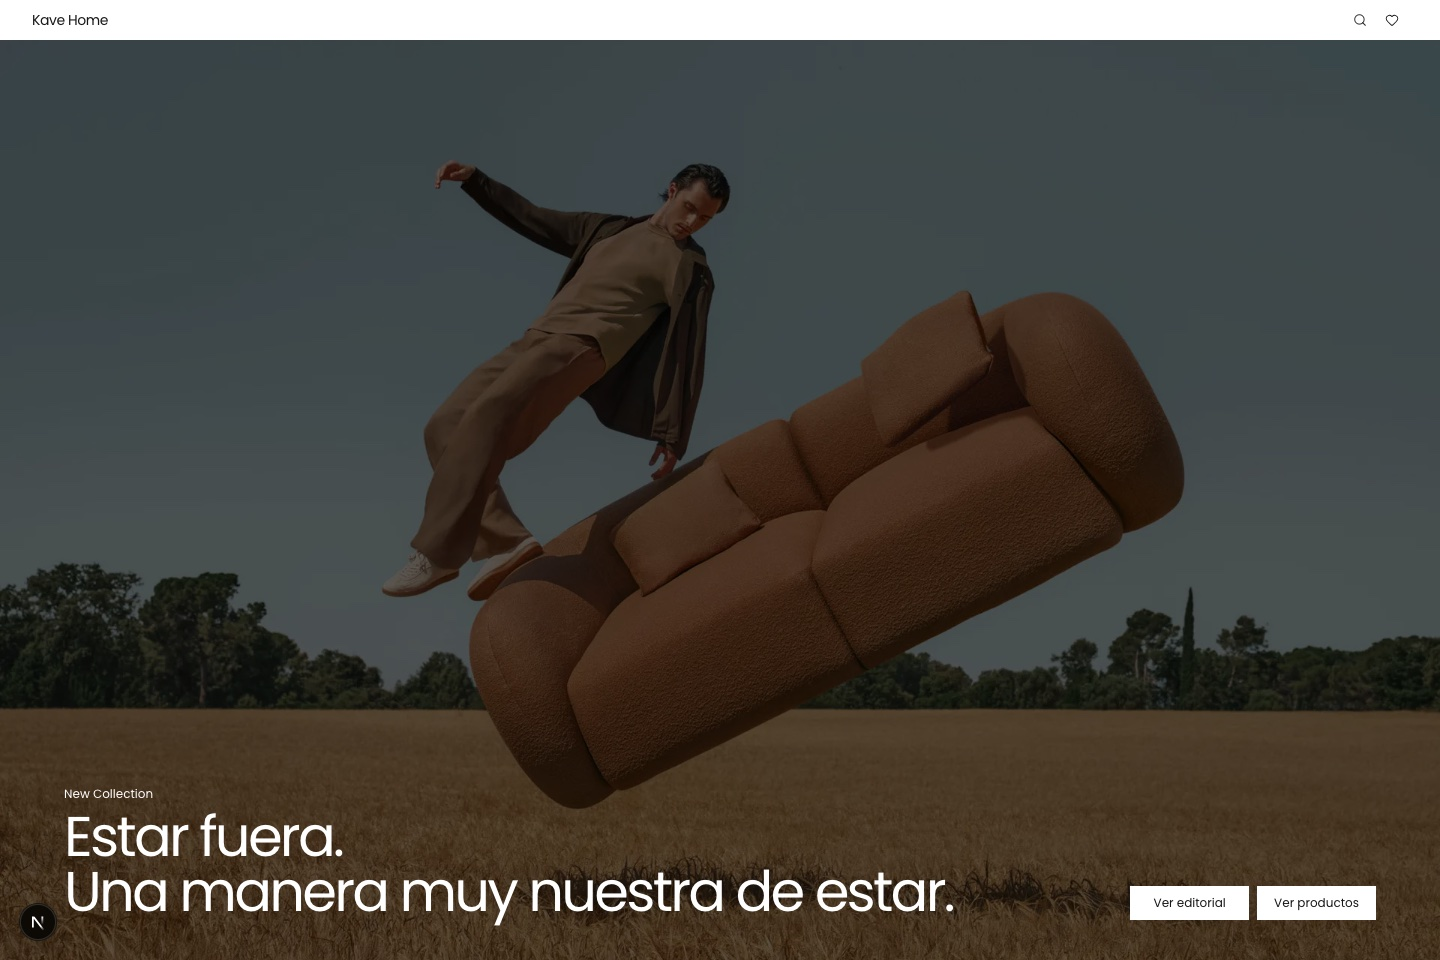
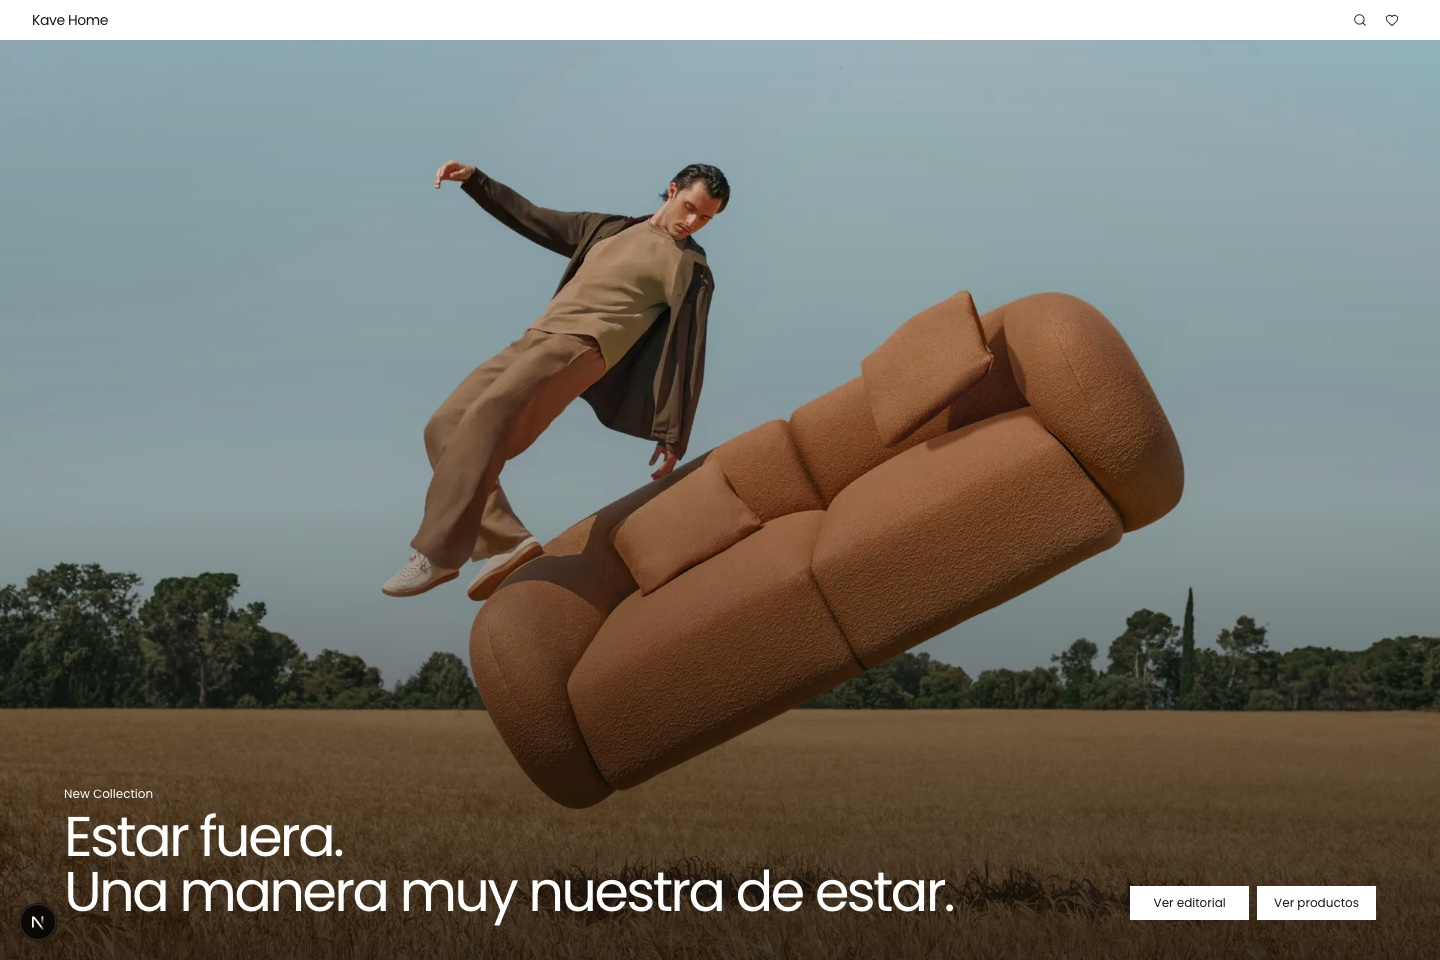
Actualizar galería y gradiente del hero

diff --git a/src/features/product/containers/product-gallery/mobile-product-gallery/index.tsx b/src/features/product/containers/product-gallery/mobile-product-gallery/index.tsx
@@ -14,14 +14,13 @@ export function MobileProductGallery({
     useInfiniteGalleryScroll(images)
 
   return (
-    <div
-      role="region"
-      aria-roledescription="carrusel"
-      aria-label={productGalleryMessages.label}
-      className={mobileGalleryStyles.mobile}
-    >
+    <div className={mobileGalleryStyles.mobile}>
       <div
         ref={viewport}
+        role="region"
+        aria-roledescription="carrusel"
+        aria-label={productGalleryMessages.label}
+        tabIndex={0}
         className={mobileGalleryStyles.mobileTrack}
         onScroll={scheduleCorrection}
       >

diff --git a/src/features/home/page-module/styles.ts b/src/features/home/page-module/styles.ts
@@ -4,7 +4,8 @@ import { cn } from '@/utils/classnames'
 export const homeStyles = {
   hero: 'relative isolate mx-auto flex min-h-[calc(100dvh-var(--header-height))] max-w-screen-2xl items-end overflow-hidden bg-[#f1f0ed] px-5 py-10 text-white sm:px-10 lg:px-16',
   heroImage: 'z-0 object-cover',
-  heroOverlay: 'absolute inset-0 z-10 bg-black/25',
+  heroOverlay:
+    'absolute inset-0 z-10 bg-gradient-to-t from-black/70 via-black/20 to-transparent',
   heroContent:
     'relative z-20 flex w-full flex-col gap-6 md:flex-row md:items-end md:justify-between',
   heroCopy: 'max-w-4xl',

diff --git a/README.md b/README.md
@@ -4,37 +4,67 @@ Storefront responsive construido con Next.js 16, React 19, TypeScript y Tailwind
 
 [Ver despliegue en Vercel](https://kave-home-challenge.vercel.app)
 
-## Vista rápida
+## Galería
 
 Las capturas se generaron sobre el modo local determinista incluido en el proyecto.
 
-<img src="docs/readme/home-hero.jpg" alt="Hero editorial de la página de inicio" width="100%">
+### Inicio
+
+<table>
+  <tr>
+    <td colspan="2">
+      <img src="docs/readme/home-hero.jpg" alt="Hero editorial de la página de inicio" width="100%">
+    </td>
+  </tr>
+  <tr>
+    <td width="50%">
+      <img src="docs/readme/home-categories.jpg" alt="Categorías de la página de inicio en escritorio" width="100%">
+    </td>
+    <td width="50%">
+      <img src="docs/readme/home-mobile-categories.png" alt="Carrusel de categorías de la página de inicio en móvil" width="50%">
+    </td>
+  </tr>
+</table>
+
+### Catálogo y favoritos
 
 <table>
   <tr>
     <td width="50%">
-      <img src="docs/readme/home-mobile-categories.png" alt="Carrusel de categorías de la página de inicio en móvil">
+      <img src="docs/readme/products-page-3-mobile.png" alt="Final del listado de productos en móvil, página 3 con paginación" width="50%">
     </td>
     <td width="50%">
-      <img src="docs/readme/favorites-mobile.png" alt="Página de favoritos en móvil">
+      <img src="docs/readme/favorites-mobile.png" alt="Página de favoritos en móvil con tres productos marcados" width="50%">
     </td>
   </tr>
   <tr>
     <td width="50%">
-      <img src="docs/readme/search-input-mobile.png" alt="Buscador abierto en móvil">
+      <img src="docs/readme/search-input-mobile.png" alt="Buscador abierto en móvil sobre resultados" width="50%">
     </td>
     <td width="50%">
-      <img src="docs/readme/product-detail.jpg" alt="Detalle de producto con galería, precio y favorito">
-    </td>
-  </tr>
-  <tr>
-    <td colspan="2">
       <img src="docs/readme/lighthouse-scores.png" alt="Puntuaciones de Lighthouse de la aplicación" width="50%">
     </td>
   </tr>
 </table>
 
-<img src="docs/readme/products-page-3-mobile.png" alt="Final del listado de productos en móvil, página 3 con paginación" width="20%">
+### Detalle de producto
+
+<table>
+  <tr>
+    <td width="50%">
+      <img src="docs/readme/product-detail.jpg" alt="Detalle de producto en escritorio con la primera imagen de la galería" width="100%">
+    </td>
+    <td width="50%">
+      <img src="docs/readme/product-detail-desktop-scrolled.jpg" alt="Galería del producto en escritorio desplazada para mostrar más imágenes" width="100%">
+    </td>
+  </tr>
+  <tr>
+    <td width="50%">
+      <img src="docs/readme/product-detail-mobile-second.png" alt="Detalle de producto en móvil mostrando la segunda imagen de la galería" width="50%">
+    </td>
+    <td width="50%"></td>
+  </tr>
+</table>
 
 ## Puesta en marcha
 
@@ -171,15 +201,4 @@ No se añadieron dependencias de testing de componentes ni una suite E2E sólo p
 
 ## Uso de IA
 
-La IA formó parte del proceso de desarrollo, pero no se utilizó como un generador único al que entregar el briefing y aceptar el primer resultado. El trabajo se dividió en fases pequeñas, con decisiones y revisiones registradas en los documentos locales de `.idea`: consolidación de requisitos, scaffold mínimo, inspección del contrato real, implementación por rutas, reparación arquitectónica, auditorías visuales y cierre.
-
-Algunas decisiones se refinaron precisamente a partir de ese diálogo:
-
-- mantener la obtención de datos en servidor en vez de trasladarla al cliente para esquivar el problema de la API;
-- separar desarrollo determinista, integración live y producción, manteniendo el fallback de producción desactivado por defecto y explícito mediante configuración;
-- evolucionar desde componentes ligados a Home hacia la regla fractal de promoción sólo cuando apareció reutilización real;
-- mantener carrito y checkout deshabilitados antes que simular comportamiento no solicitado;
-- reducir los tests a contratos y casos de fallo con impacto, en vez de medir cobertura por cantidad;
-- componer los estados de carga desde los loadings de cada container para que sigan la estructura final de la página.
-
-La IA ayudó a explorar alternativas, ejecutar implementaciones acotadas, contrastar documentación oficial y actuar como revisora independiente en sucesivas rondas de arquitectura, TypeScript, accesibilidad, SEO, responsive y tests. Varias propuestas fueron corregidas o descartadas tras compararlas con el briefing, las capturas y el comportamiento observado de la API. La selección de alcance, la aceptación de cada fase y la responsabilidad sobre el resultado final permanecieron en el candidato.
+La IA se utilizó como apoyo durante distintas fases del trabajo para explorar alternativas, contrastar la API y la documentación, preparar cambios acotados y revisar arquitectura, TypeScript, accesibilidad, responsive y tests. Las propuestas se validaron frente al briefing, los datos y el comportamiento real del proyecto antes de incorporarse. Las decisiones de alcance, la aceptación de los cambios y la responsabilidad sobre el resultado final permanecieron en el candidato.
